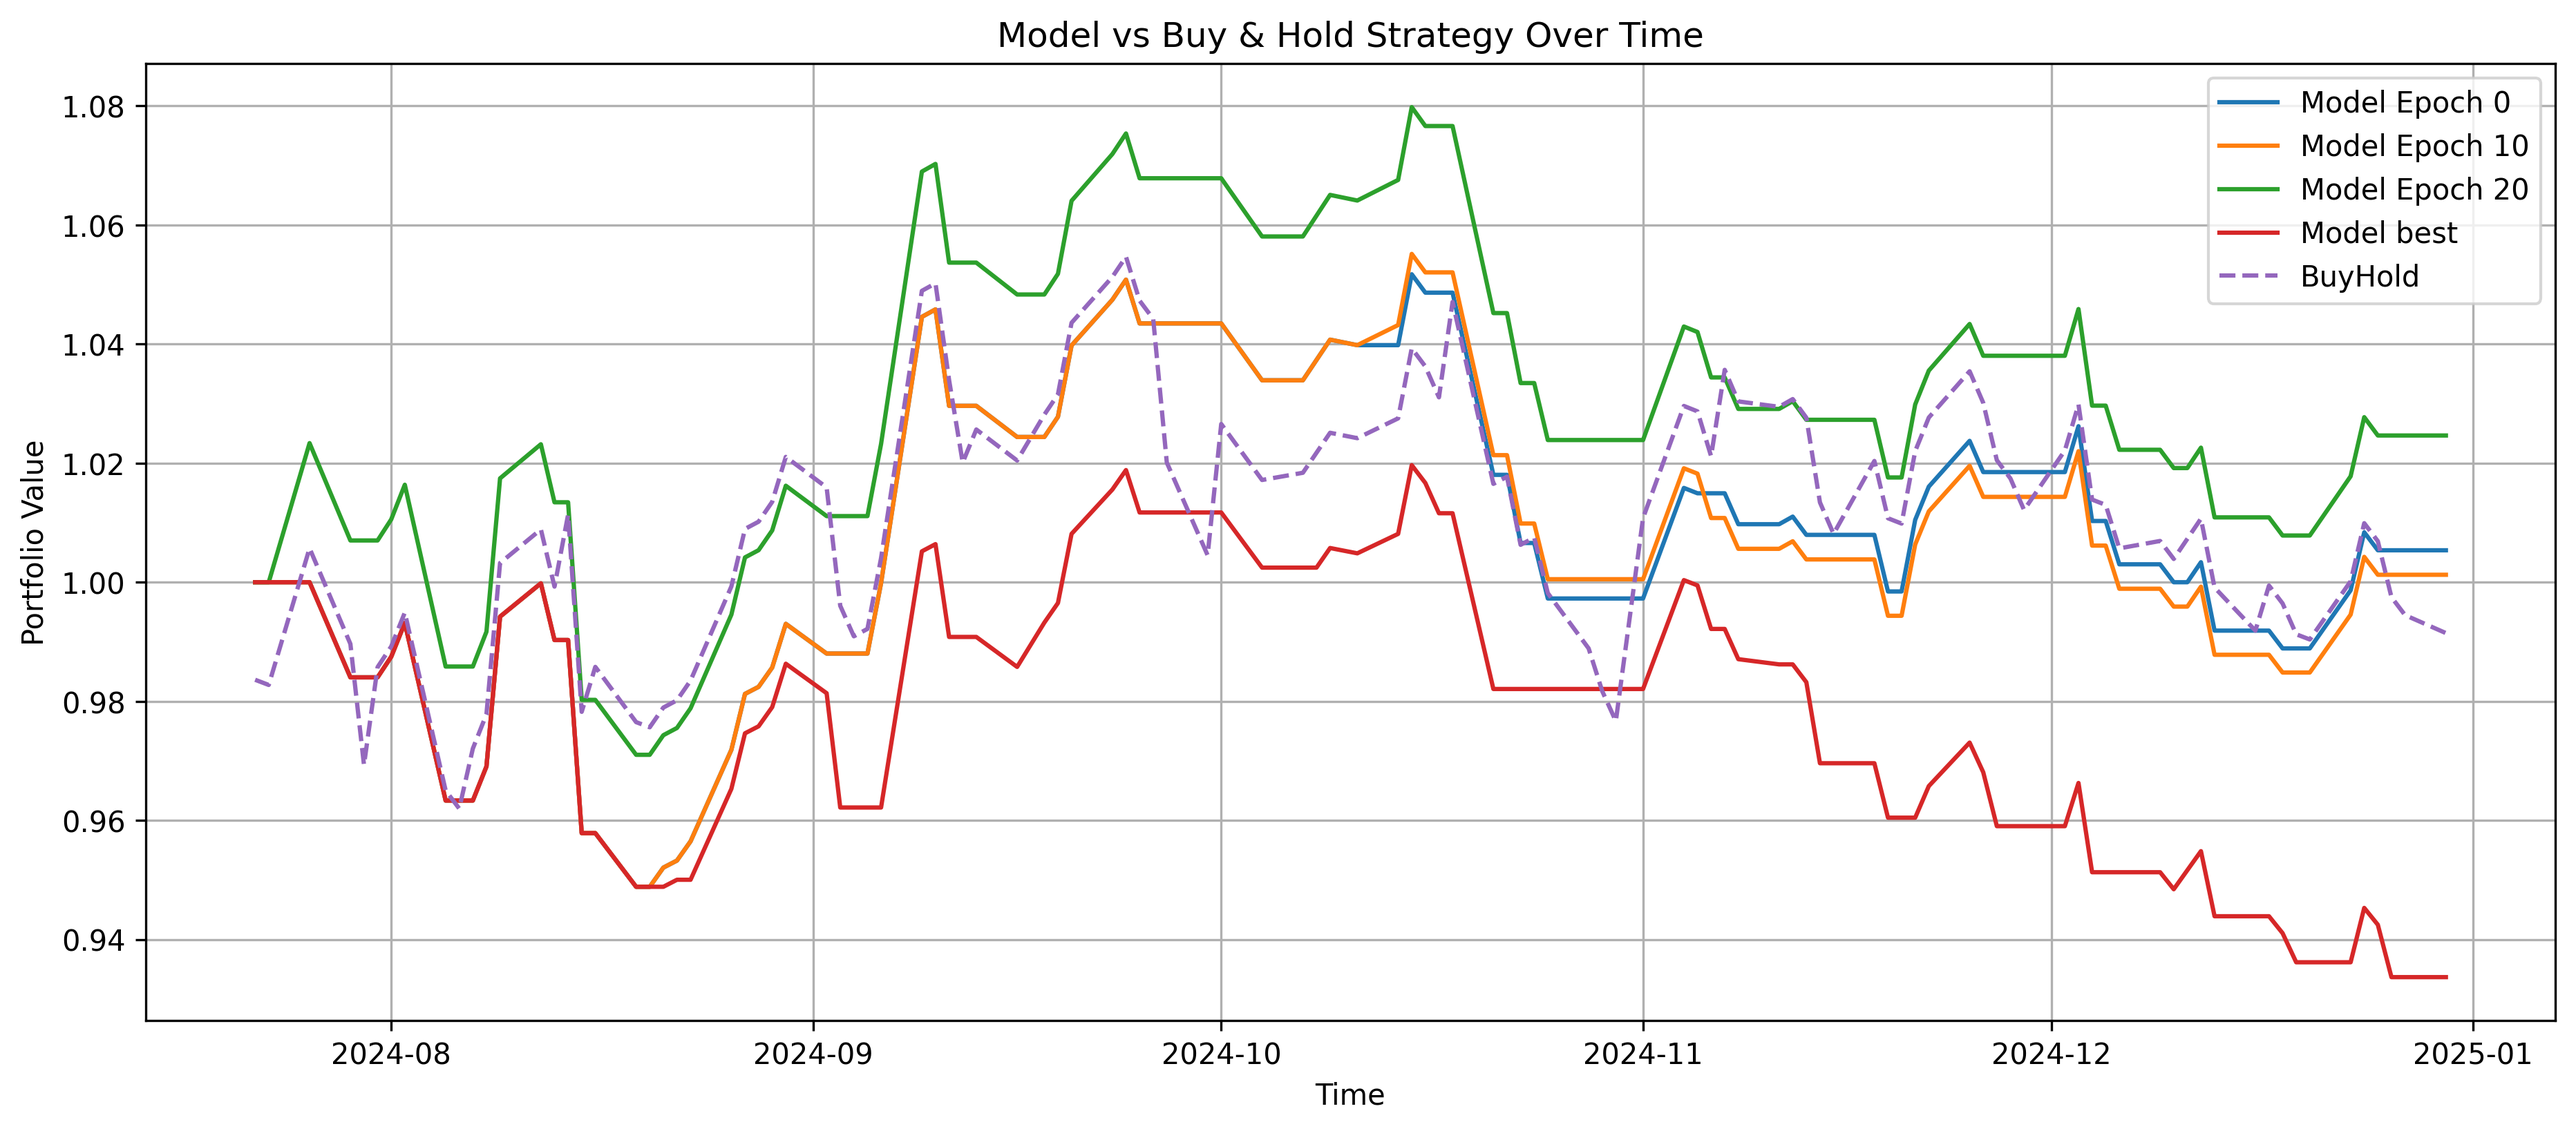
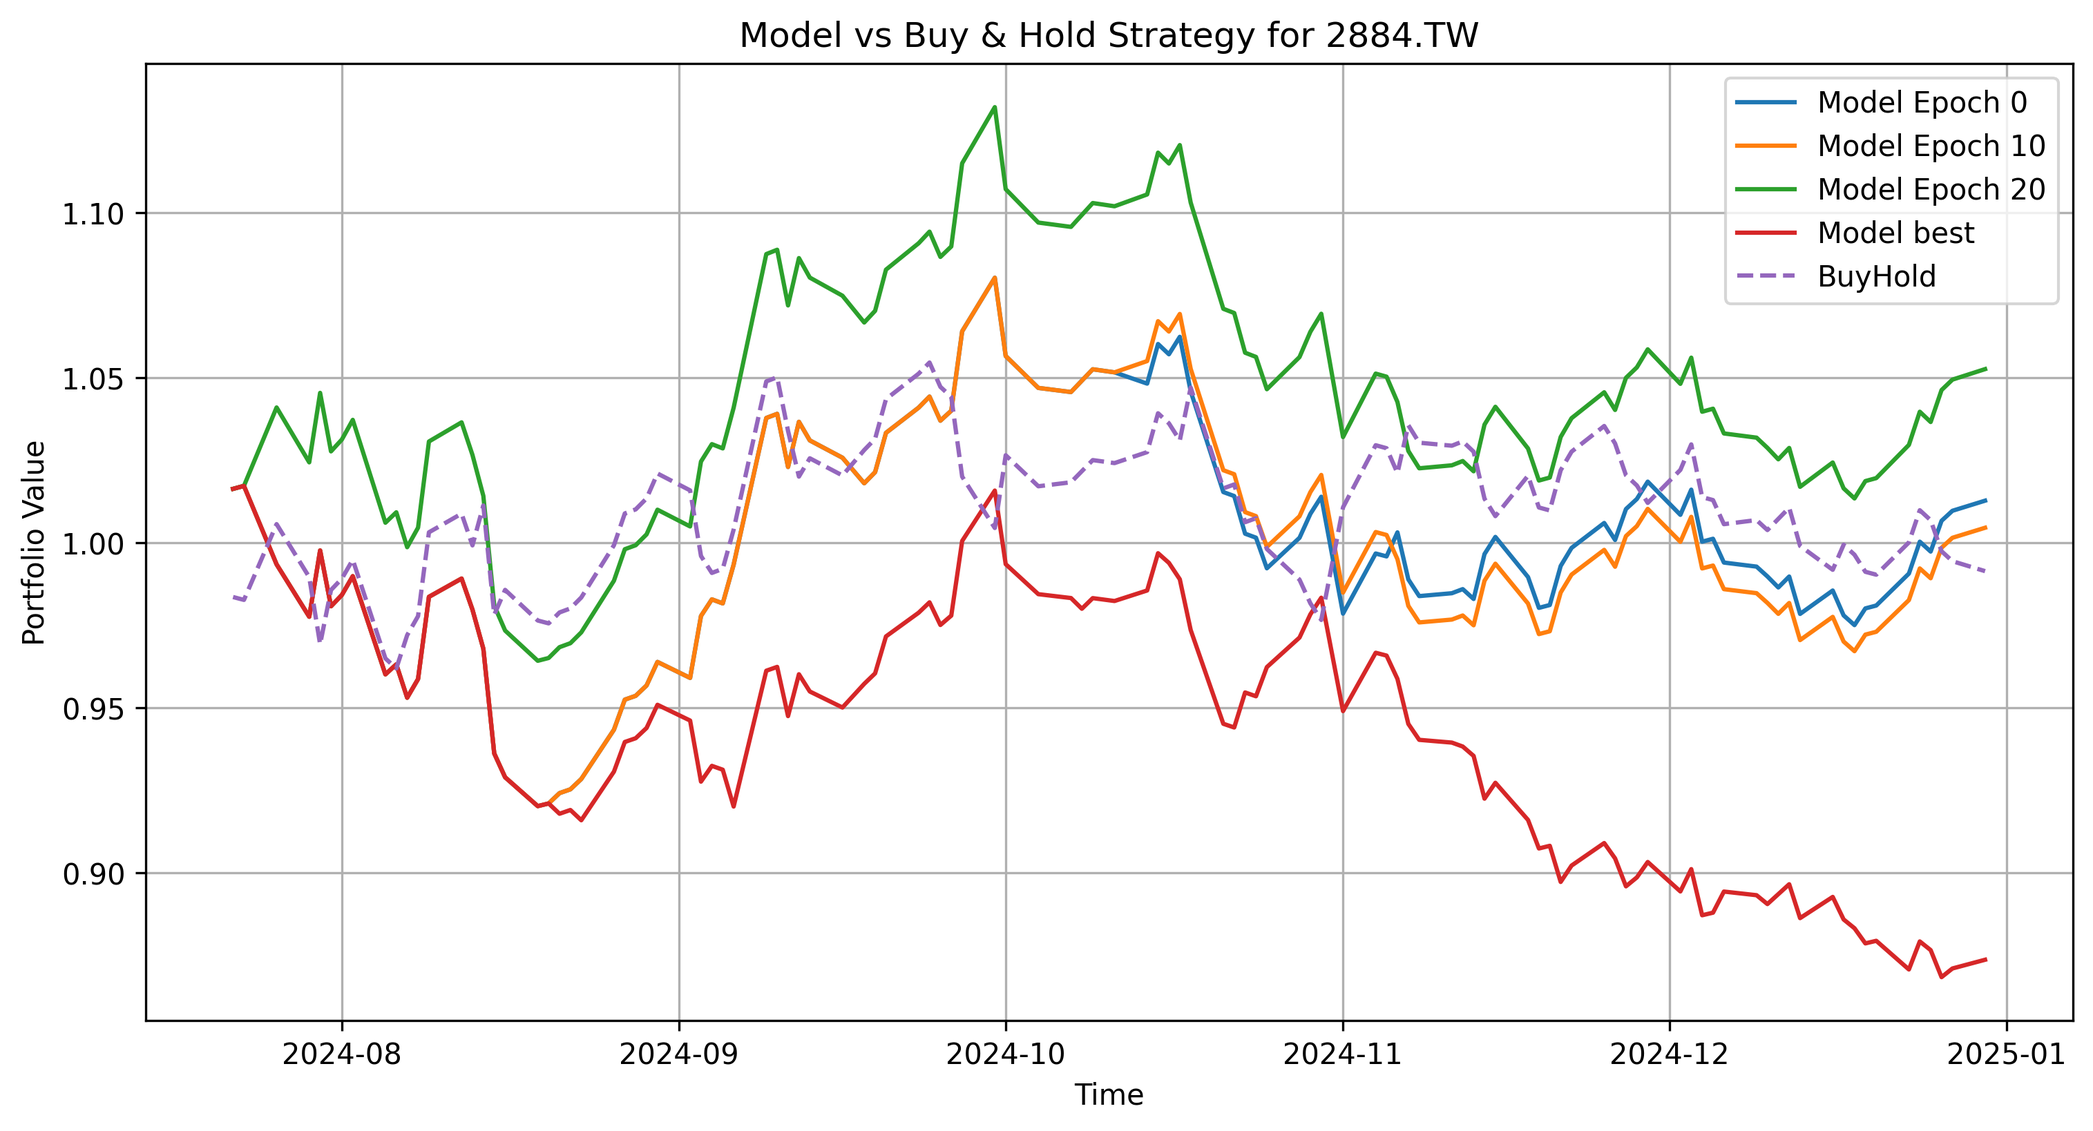
reeadme img

diff --git a/transformer-based/transformer/backtest.py b/transformer-based/transformer/backtest.py
@@ -1,0 +1,122 @@
+
+import sys 
+sys.path.append('../')
+import matplotlib.pyplot as plt
+import numpy as np
+import pickle, json
+import torch
+import pandas as pd
+from sklearn.preprocessing import StandardScaler
+from utils import *
+from datas import *
+from Transformers import Transformer
+
+device = torch.device('cpu')
+
+
+def predict(test = True, model_type="best", epoch=None):
+    
+    MODEL = "Transformer"
+    if model_type == "best":
+        model = Transformer(test=True)
+        model.load_state_dict(torch.load(f'result/{MODEL}_{stock}_best.pt'))
+        model.to("cpu")
+    else:
+        assert epoch != None, "Need epoch checkpoint"
+        assert epoch % 10 == 0, "Epoch must be multiple of 10"
+        model = Transformer(test=True)
+        model.load_state_dict(torch.load(f'result/ckpt-{MODEL}_{stock}_{epoch}.pt'))
+        model.to("cpu")
+    
+    loader = corp.testloader if test else corp.trainloader
+    
+    with torch.no_grad():
+        model.eval()
+        for x_test, y_test in loader:
+            # testloader number of batch = 1
+            _, result = model(src=corp.src, tgt=x_test, train=True) # train, test set train = True, valid set False
+            result = result[:, -1, -1].cpu().numpy()
+            truth = y_test[:, -1, -1].cpu().numpy()
+            
+    return result, truth
+
+def backtest(result, truth, thres: int = 0, short: bool = False):
+    
+    asset = 1
+    asset_buyhold = 1
+    asset_hist = []
+    asset_buyhold_hist = []
+    
+    for doc_1, pred in zip(truth, result):
+        
+        if pred > thres:
+            asset *= (1 + doc_1/100)
+        
+        if short and pred < thres:
+            asset *= (1 - doc_1/100)
+                
+        asset_hist.append(asset)
+        asset_buyhold *= (1 + doc_1/100)
+        asset_buyhold_hist.append(asset_buyhold)
+        
+    return asset_hist, asset_buyhold_hist
+
+def getTimeTest(len_test):
+    return corp.data.index[-len_test:]
+
+
+
+def evalPlot(epoch = None, short = False):
+    
+    # Plot best
+    if epoch == None:
+        result, truth = predict()
+        result_val, _ = predict(test=False)
+        thres = result_val.mean()
+        asset_hist, asset_buyhold_hist = backtest(result, truth, thres, short)
+        time = getTimeTest(result.shape[0])
+        df = pd.DataFrame({"Model": asset_hist, "BuyHold": asset_buyhold_hist}).set_index(time)
+
+        plt.plot(df["Model"], label=f"Model best")   # Model performance
+        plt.plot(df["BuyHold"], linestyle="dashed", label=f"BuyHold")  # Buy & Hold strategy
+    
+    else:
+        
+        result_val, _ = predict(test=False, model_type="checkpoint", epoch=epoch)
+        result, truth = predict(model_type="checkpoint", epoch=epoch)
+        thres = result_val.mean()
+        asset_hist, asset_buyhold_hist = backtest(result, truth, thres, short)
+        time = getTimeTest(result.shape[0])
+        df = pd.DataFrame({"Model": asset_hist, "BuyHold": asset_buyhold_hist}).set_index(time)
+
+        plt.plot(df["Model"], label=f"Model Epoch {epoch}")   # Model performance    
+
+
+if __name__ == "__main__":
+
+    stock_list = ["2884.TW", "2454.TW"]
+    short = True
+
+    for stock in stock_list:
+        
+        corp = Data(stock)
+        corp.prepareData()
+
+        plt.figure(figsize=(12, 6))  # Create a new figure for each stock
+
+        for epoch in [0, 10, 20]:  # Loop over epochs
+            evalPlot(epoch, short)
+        
+        evalPlot(short=short)
+
+        # Add labels and legend
+        plt.xlabel("Time")
+        plt.ylabel("Portfolio Value")
+        plt.title(f"Model vs Buy & Hold Strategy for {stock}")
+        plt.legend()
+        plt.grid(True)
+        
+        # Save each stock's figure separately
+        plt.savefig(f"result/{stock}.png", dpi=300, bbox_inches="tight")
+
+    plt.show()  # Display both figures

diff --git a/transformer-based/README.md b/transformer-based/README.md
@@ -16,8 +16,10 @@ Predict the daily percentile change for open and close price
 
 ## Result
 ### Transformer
-- ![2454 performance](https://github.com/KJJHHH/Stock/blob/main/transformer-based/transformer/result/2454.TW.png)
-- ![2884 performance](https://github.com/KJJHHH/Stock/blob/main/transformer-based/transformer/result/2884.TW.png)
+- Stock 2454
+![2454 performance](https://github.com/KJJHHH/Stock/blob/main/transformer-based/transformer/result/2454.TW.png)
+- Stock 2884
+![2884 performance](https://github.com/KJJHHH/Stock/blob/main/transformer-based/transformer/result/2884.TW.png)
 ### Decoder only
 ...
 
